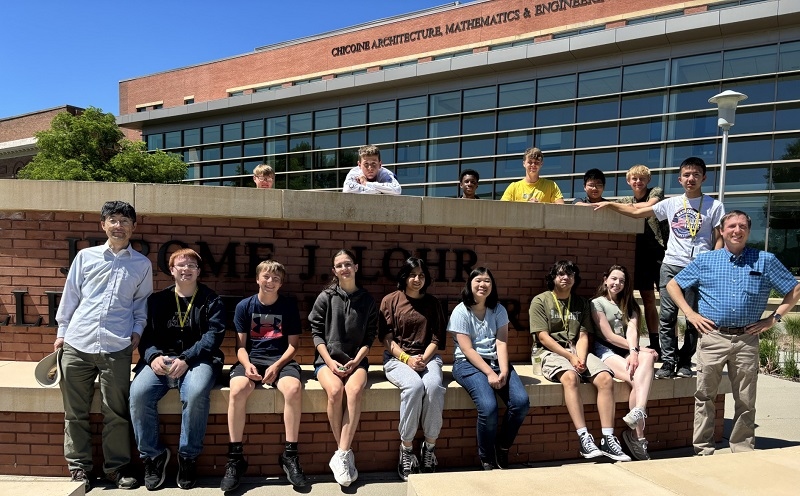
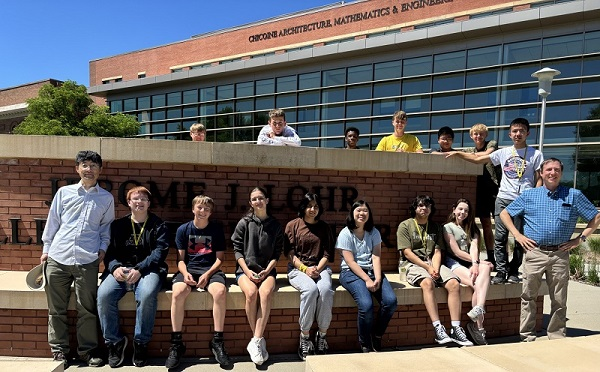
image

diff --git a/2024/index.htm b/2024/index.htm
@@ -1,9 +1,13 @@
 
 <p><strong>&nbsp;SDSU Data Science Camp projects and links</strong></p>
 <p>June 24-27, 2024.&nbsp;</p>
-<p>Director: Xijin Ge and William Alsaker</p>
-<div>Supported by Dept. of Mathematics and Statistics, J. Lohr College of Engineering, South Dakota State Univeristy.</div>
+<p>Director: <a href="https://www.sdstate.edu/directory/xijin-ge">Xijin Ge</a> 
+and <a href="https://www.sdstate.edu/directory/william-alsaker">William Alsaker</a></p>
+<div>Supported by <a href="https://www.sdstate.edu/directory/william-alsaker">
+Dept. of Mathematics and Statistics,</a>
+J. Lohr College of Engineering, South Dakota State Univeristy.</div>
 <div><br />
+<a href="https://github.com/gexijin/camp/tree/main/2024">Source code</a></p>
 <table border="1" width="612" cellspacing="0" cellpadding="0">
 <tbody>
 <tr>
@@ -120,7 +124,7 @@
 </tr>
 <tr>
 <td width="216">&nbsp;Dawson Backous</td>
-<td width="282"><a href="https://gexijin.github.io/camp/2024/Dawson/">Game</a></td>
+<td width="282"><a href="https://gexijin.github.io/camp/2024/Dawson/Game.html">Game</a></td>
 <td width="114">&nbsp;</td>
 </tr>
 <tr>
@@ -131,4 +135,6 @@
 </tbody>
 </table>
 </div>
-<p><img src="image.jpg" alt="" width="800" height="496" />&nbsp;</p>
+<p>
+ 
+<p><img src="image.jpg" alt="" width="600" height="258" />&nbsp;</p>
